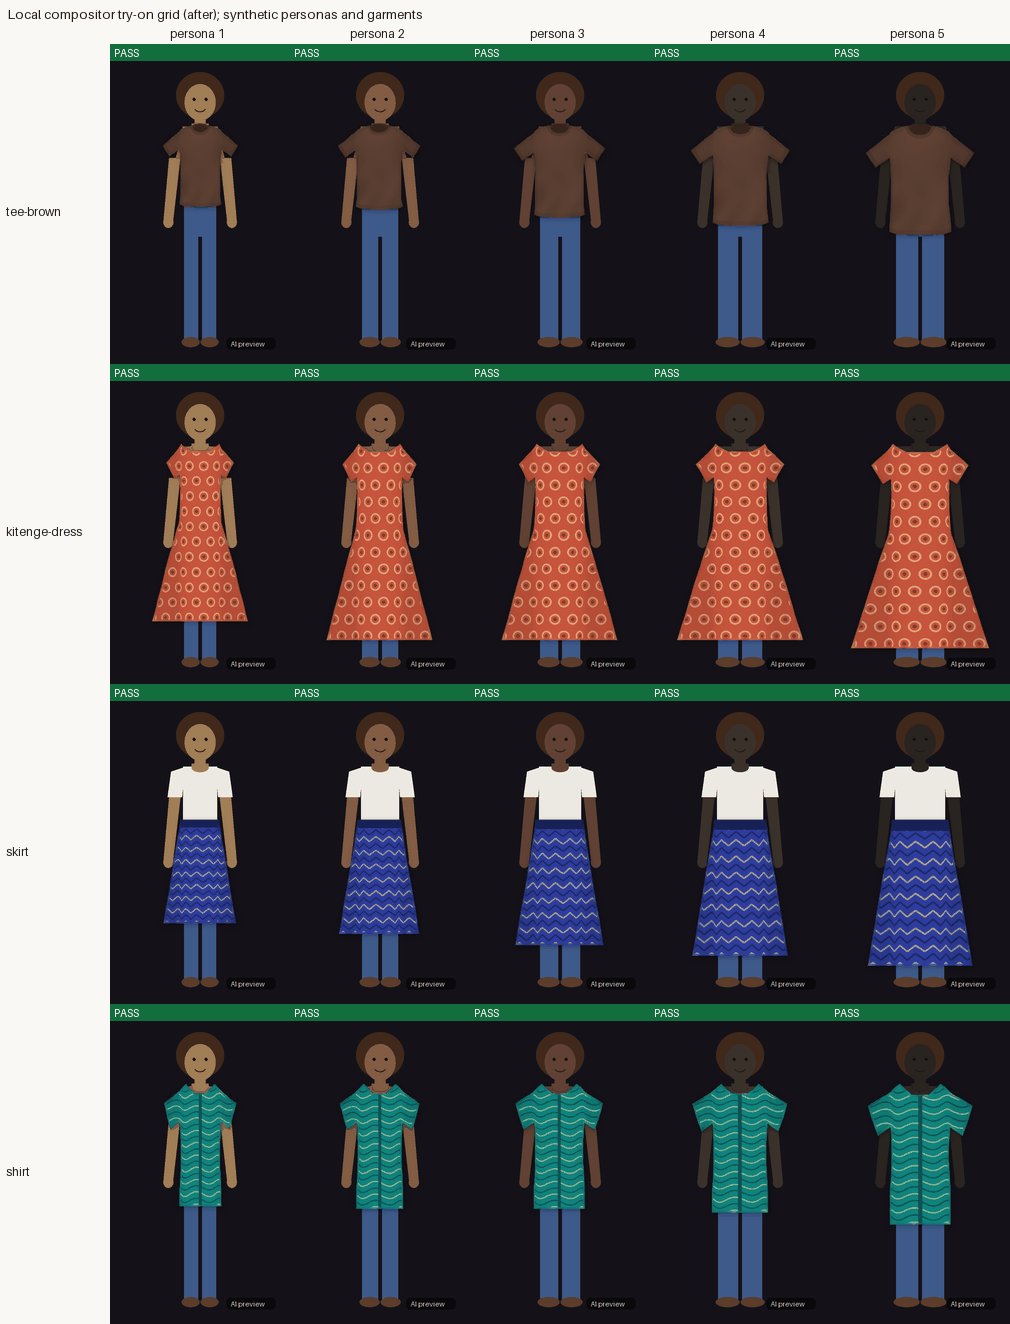
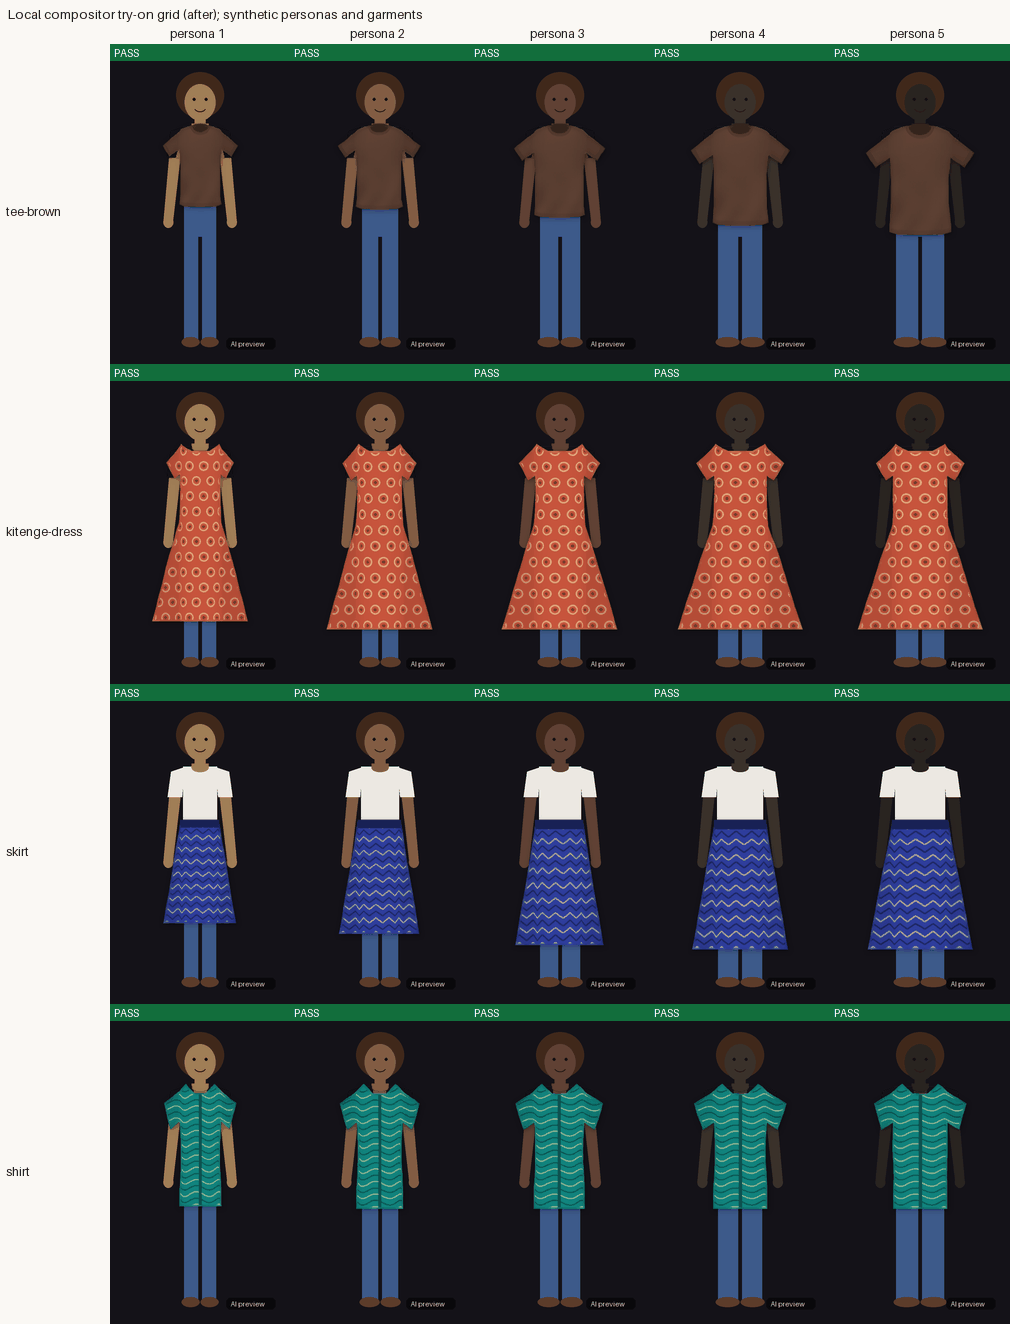
wip(ai): after metrics + grid refresh

diff --git a/docs/quality/tryon-quality.md b/docs/quality/tryon-quality.md
@@ -4,21 +4,21 @@
 | Garment (category sent) | Run | Readiness (exposure) | Placement err % | Undershirt leak % | Aspect distortion % | Guard pass /5 (reasons) | Latency ms |
 |---|---|---|---|---|---|---|---|
 | tee-brown (`t-shirt`) | before | READY (ok) | 6.11 | 9.97 | 119.76 | 5 (-) | 44.8 |
-| tee-brown (`t-shirt`) | after | READY (ok) | 1.13 | 0 | 22.94 | 5 (-) | 143.2 |
+| tee-brown (`t-shirt`) | after | READY (ok) | 1.13 | 0 | 22.94 | 5 (-) | 125.2 |
 | kitenge-dress (`Kitenge dress`) | before | READY (ok) | 0.91 | 9.82 | 22.14 | 5 (-) | 42.8 |
-| kitenge-dress (`Kitenge dress`) | after | READY (ok) | 0.91 | 0 | 9.94 | 5 (-) | 142.2 |
+| kitenge-dress (`Kitenge dress`) | after | READY (ok) | 0.91 | 0 | 8.42 | 5 (-) | 134.4 |
 | skirt (`skirt`) | before | READY (ok) | 4.08 | n/a | 12.4 | 5 (-) | 40 |
-| skirt (`skirt`) | after | READY (ok) | 0.91 | n/a | 20.2 | 5 (-) | 89 |
+| skirt (`skirt`) | after | READY (ok) | 0.91 | n/a | 16.48 | 5 (-) | 87.4 |
 | shirt (`shirt`) | before | READY (ok) | 0.91 | 0.25 | 24.1 | 5 (-) | 75.8 |
-| shirt (`shirt`) | after | READY (ok) | 1.68 | 0 | 8.24 | 5 (-) | 125.8 |
+| shirt (`shirt`) | after | READY (ok) | 1 | 0 | 7.8 | 5 (-) | 124.6 |
 | tee-dark (`tee`) | before | READY (ok) | 6.11 | 9.91 | 119.76 | 5 (-) | 41 |
-| tee-dark (`tee`) | after | READY (ok) | 1.13 | 0 | 22.74 | 5 (-) | 126.4 |
+| tee-dark (`tee`) | after | READY (ok) | 1.13 | 0 | 22.74 | 5 (-) | 127.2 |
 | tee-light (`Polo`) | before | READY (ok) | 6.11 | 10.15 | 119.38 | 5 (-) | 42.8 |
-| tee-light (`Polo`) | after | READY (ok) | 1.13 | 0 | 23.46 | 5 (-) | 124.8 |
+| tee-light (`Polo`) | after | READY (ok) | 1.13 | 0 | 23.46 | 5 (-) | 133.2 |
 | tee-mid (`(empty)`) | before | READY (ok) | 6.11 | 9.98 | 119.76 | 5 (-) | 40.8 |
-| tee-mid (`(empty)`) | after | READY (ok) | 1.13 | 0 | 22.58 | 5 (-) | 129.6 |
+| tee-mid (`(empty)`) | after | READY (ok) | 1.13 | 0 | 22.58 | 5 (-) | 130.2 |
 | real-tee (`T-Shirt`) | before | NEEDS_BETTER_PHOTO (fail) | 6.56 | 7.59 | 98.7 | 5 (-) | 48.8 |
-| real-tee (`T-Shirt`) | after | READY (ok) | 1.13 | 0 | 18.4 | 5 (-) | 171.6 |
+| real-tee (`T-Shirt`) | after | READY (ok) | 1.13 | 0 | 18.4 | 5 (-) | 154.6 |
 
-HD tier (1024 px) mean latency, tee on all personas: before 85.2 ms, after 301.6 ms.
+HD tier (1024 px) mean latency, tee on all personas: before 85.2 ms, after 300.6 ms.
 <!-- metrics:end -->
